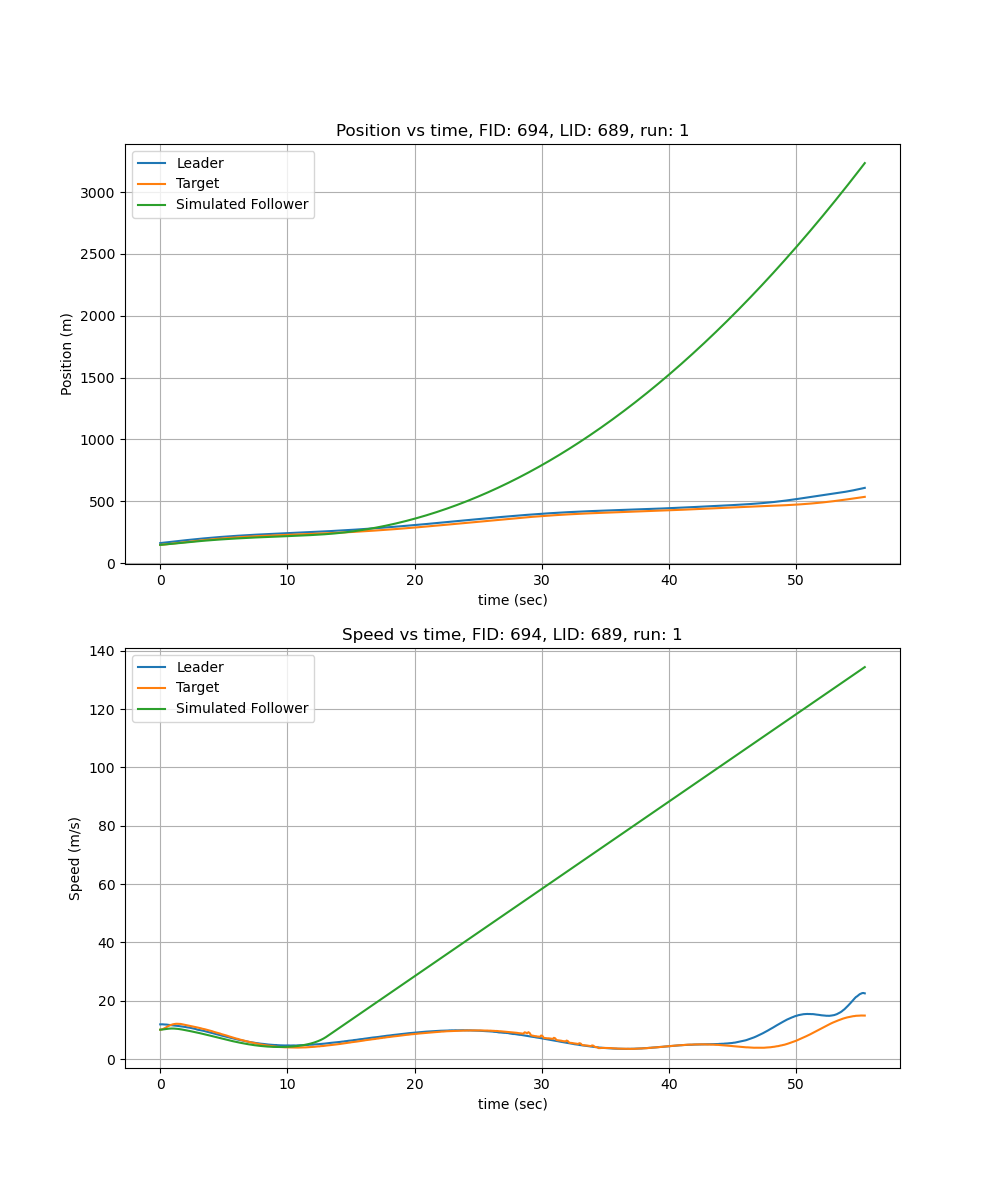
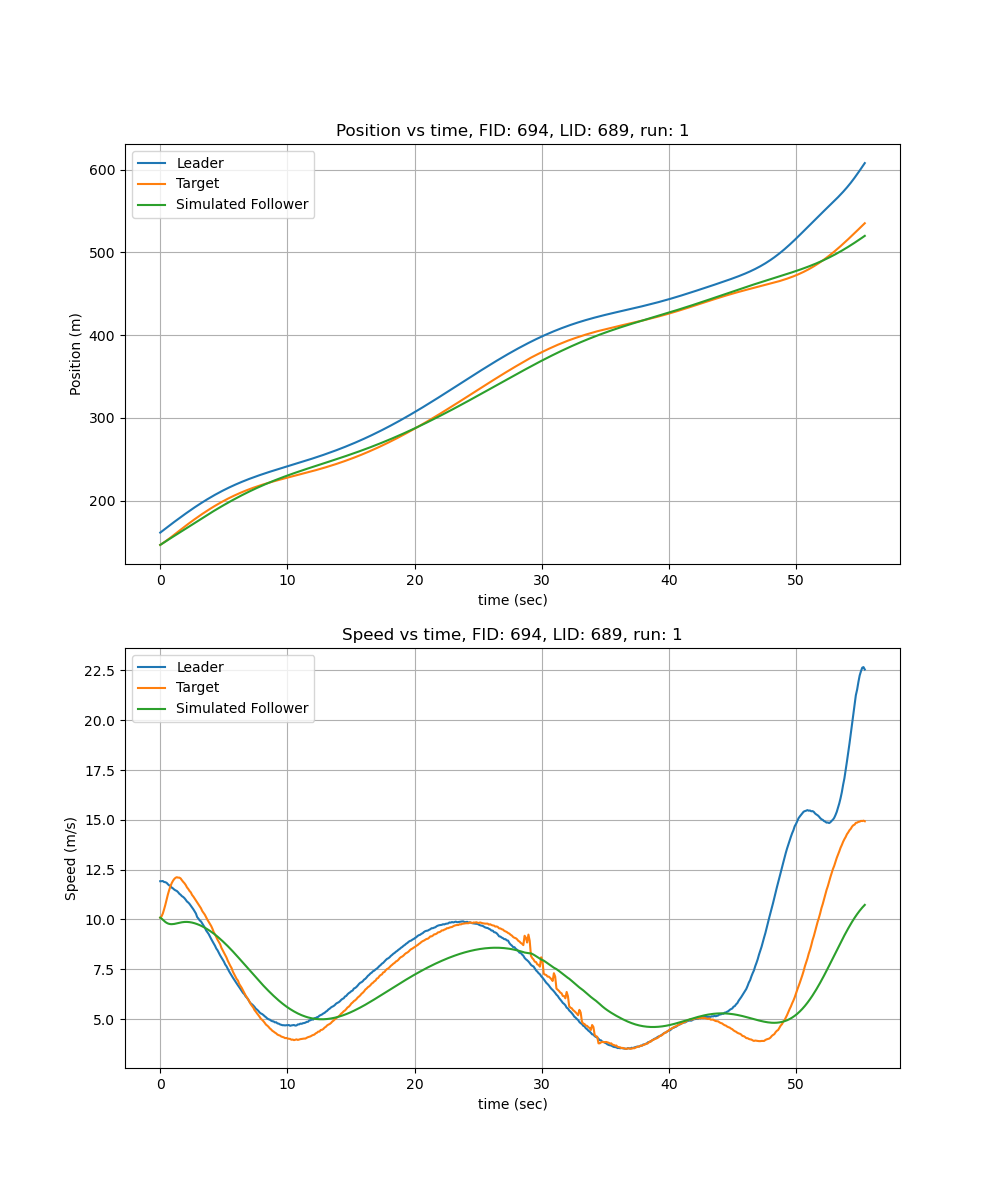
add all

diff --git a/04HDB.py b/04HDB.py
@@ -83,22 +83,22 @@ accl_min = -5  # More realistic braking limit
 accl_max = 3  # Prevent excessive acceleration
 
 A_min = 5 
-A_max = 12 
+A_max = 9
 
-Th_min = 1.0 
-Th_max = 2.0 
+Th_min = 3.0 
+Th_max = 6.0 
 
-Ta_min = 1
-Ta_max = 3 
+Ta_min = 3
+Ta_max = 6
 
-G_min = 0.005 
-G_max = 1.5
+G_min = -8.0 
+G_max = 8.0
 
-tau_min = 0.5
-tau_max = 1.5 
+tau_min = 0.5 
+tau_max = 1.5
 
-lamb_min = 0.01 
-lamb_max = 0.4
+lamb_min = 0.3
+lamb_max = 1.0
 
 
 most_leading_leader_id = None
@@ -185,7 +185,7 @@ def extract_subject_and_leader_data(df, follower_id, run_index):
 
 
 
-def acceleration_calculator(i, vehicle_dict, A,Th,Ta,G,tau,lamb,desired_position) :
+def acceleration_calculator(i, vehicle_dict, A,Th,Ta,G,tau,lamb) :
     """
     Calculate desired acceleration for a vehicle using the Traffic Flow Stability (TFS) Spacing Policy.
     
@@ -201,13 +201,14 @@ def acceleration_calculator(i, vehicle_dict, A,Th,Ta,G,tau,lamb,desired_position
         float: Computed acceleration.
     """
     # Extract relevant parameters 
-    gap_error = vehicle_dict['gap'] + desired_position
+    gap_error = vehicle_dict['gap']  
     speed_error = vehicle_dict['deltav']
     vi = vehicle_dict['speed']
     temp_accl = vehicle_dict['accl']
  
 
-    accl = (1 - (tau*Th/Ta))*  temp_accl  + ((tau*speed_error)/Ta) + ((tau*lamb*gap_error)/Ta)
+    accl = ((1 - ((tau*Th) /Ta))*temp_accl)  + ((tau*speed_error)/Ta) + ((tau*lamb*gap_error)/Ta)
+    
 
     # # Clamp acceleration to realistic limits
     accl = np.clip(accl, accl_min, accl_max)  # Using acceleration bounds  
@@ -231,22 +232,20 @@ def simulate_car_following(params):
 
     for i in range(1, num_steps):
         dt = time_step 
-        vh = speed[i-1] 
-        desired_position = A + Th*vh**2 + G*vh**2 
-
+        vh = speed[i-1]  
+        R = A + Th*vh + G*vh**2 
+        epsilon = R -Th*vh - Ta*acl[i]
 
         vehicle_dict = { 
-            'gap':  position[i - 1] - target_position[i - 1],
-            'deltav': speed[i - 1] - target_speed[i - 1],
+            'gap':  epsilon, 
+            'deltav': target_speed[i - 1] - speed[i - 1],
             'speed': speed[i - 1],
             'accl': acl[i-1]
         }
 
 
         
-        acceleration = acceleration_calculator(i, vehicle_dict, A,Th,Ta,G,tau,lamb,desired_position) 
-
-
+        acceleration = acceleration_calculator(i, vehicle_dict, A,Th,Ta,G,tau,lamb) 
         acl[i] = acceleration
         speed[i] = speed[i - 1] + acceleration * dt
         position[i] = position[i - 1] + speed[i-1] * dt + 0.5 * acceleration * (dt**2)
